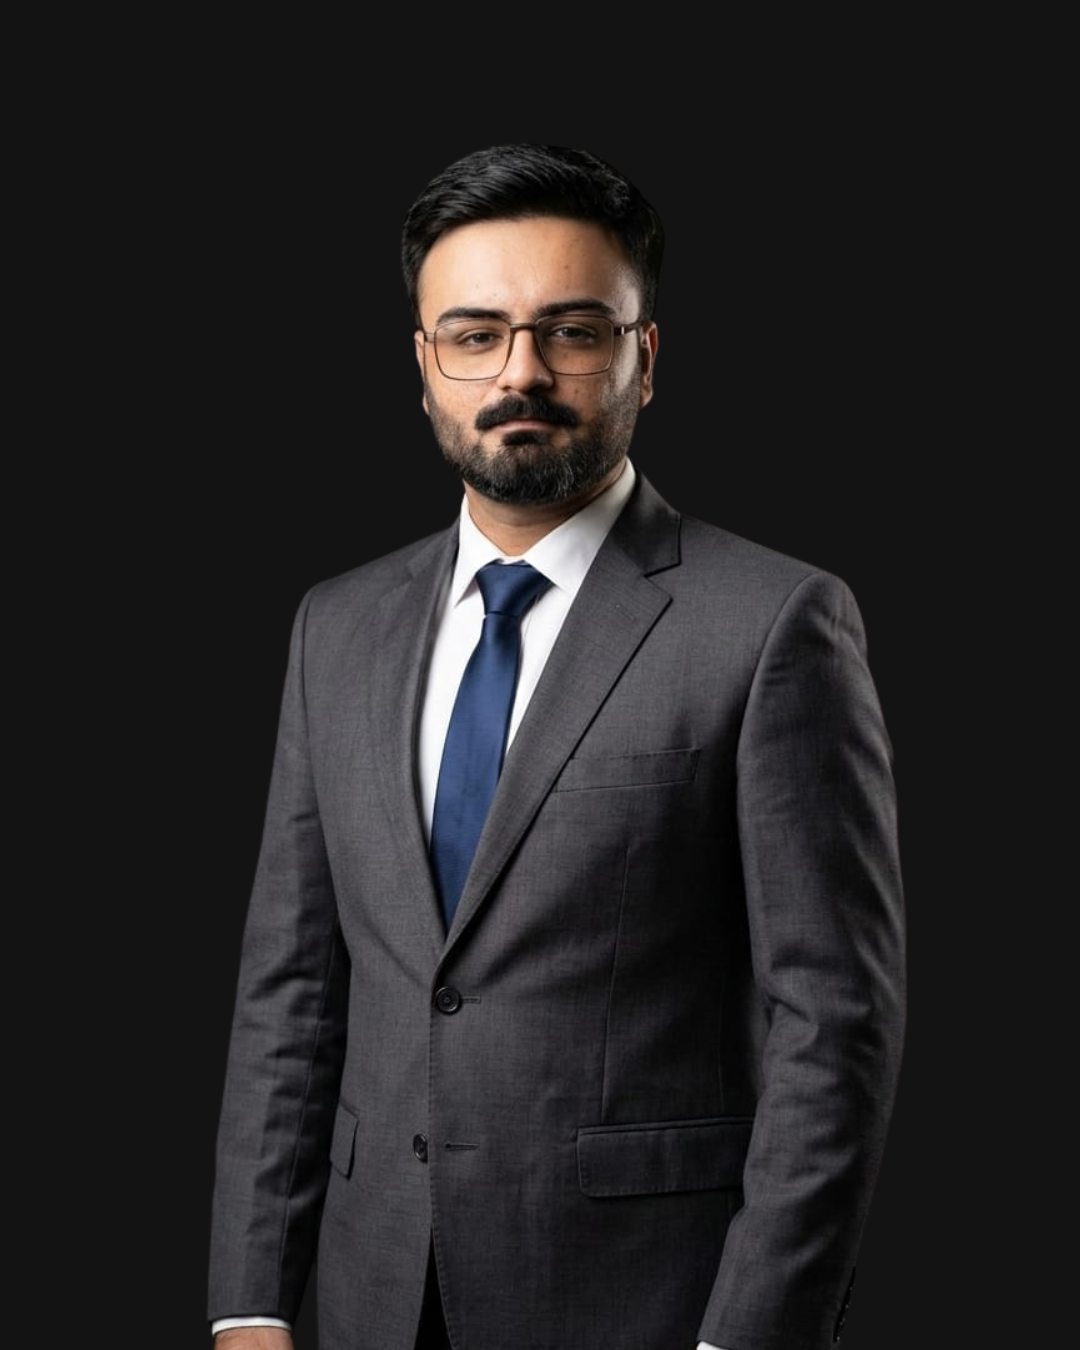
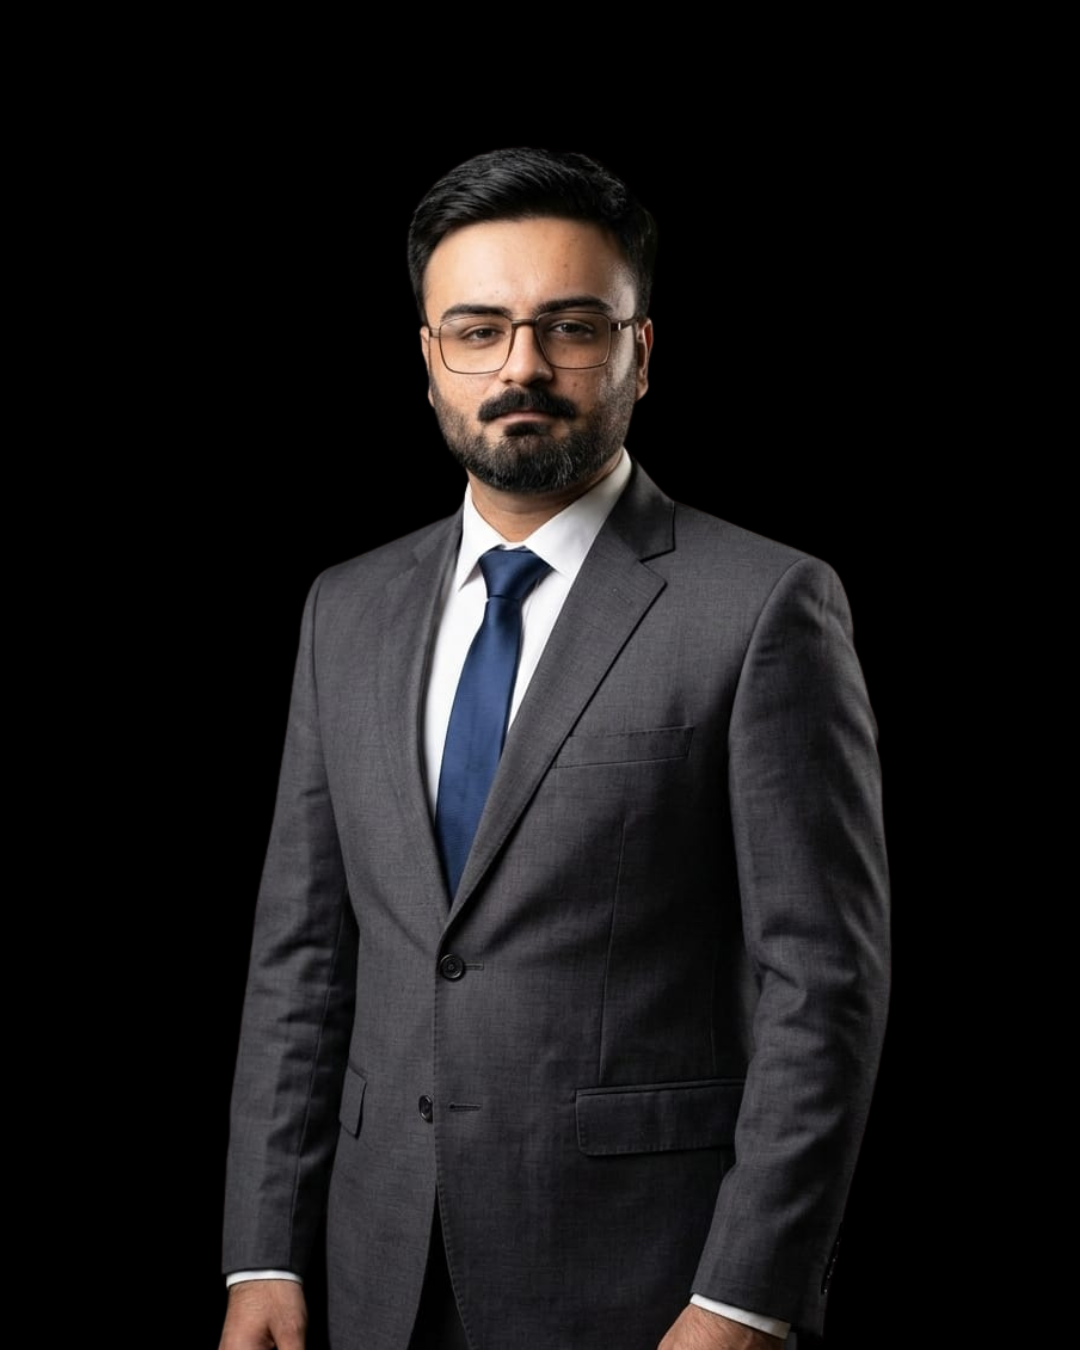
About.jsx updated

diff --git a/src/Components/TeamGrid.jsx b/src/Components/TeamGrid.jsx
@@ -6,17 +6,16 @@ import Sabir from '../assets/images/sabir.jpeg';
 import Mubeen from '../assets/images/mubeen.jpg';
 import Meer from '../assets/images/meer.png';
 import Talha from '../assets/images/talha.png';
-import Ibtsam from '../assets/images/ibtsam.jfif';
+import Ibtsam from '../assets/images/1.jpeg';
 
 const cardData = [
   { id: 1, category: 'WEB DEVELOPER', title: 'MUHAMMAD HAMZA', description: 'Building secure, scalable backend architectures, APIs, and cloud services.', image: Hamza },
-  { id: 2, category: 'DIGITAL MARKETING', title: 'Ameer Hamza', description: 'Creating search optimization strategies and online campaign frameworks to scale traffic.', image: Ameerhamza },
-  { id: 3, category: 'Performance Marketing', title: 'Sabir Hussain ', description: 'Optimizing paid advertising channels, conversion rates, and ROI metrics.', image: Sabir },
-  { id: 4, category: 'Graphic Designer', title: 'Sabir Hussain', description: 'Designing user interfaces, branding visuals, and high-fidelity graphics.', image: Sabir },
-  { id: 5, category: 'FRONTEND WEB DEVELOPER', title: 'MUHAMMAD MUBEEN AMJAD', description: 'Developing responsive UI components using React, Tailwind CSS, and Framer Motion.', image: Mubeen },
-  { id: 6, category: 'Graphic Designer', title: 'Meer Ali Abbas', description: 'Creating visually compelling brand identities, graphics, and high-fidelity mockups for digital products.', image: Meer },
-  { id: 7, category: 'MACHINE LEARNING', title: 'MUHAMMAD TALHA', description: 'Building machine learning pipelines, predictive engines, and data analytics dashboards.', image: Talha },
-  { id: 8, category: 'FRONTEND WEB DEVELOPER', title: 'MUHAMMAD IBTSAM', description: 'Designing modular code architecture and improving clientside performance benchmarks.', image: Ibtsam },
+  { id: 2, category: 'Performance Marketing', title: 'Sabir Hussain ', description: 'Optimizing paid advertising channels, conversion rates, and ROI metrics.', image: Sabir },
+  { id: 3, category: 'Graphic Designer', title: 'Sabir Hussain', description: 'Designing user interfaces, branding visuals, and high-fidelity graphics.', image: Sabir },
+  { id: 4, category: 'FRONTEND WEB DEVELOPER', title: 'MUHAMMAD MUBEEN AMJAD', description: 'Developing responsive UI components using React, Tailwind CSS, and Framer Motion.', image: Mubeen },
+  { id: 5, category: 'Graphic Designer', title: 'Meer Ali Abbas', description: 'Creating visually compelling brand identities, graphics, and high-fidelity mockups for digital products.', image: Meer },
+  { id: 6, category: 'MACHINE LEARNING', title: 'MUHAMMAD TALHA', description: 'Building machine learning pipelines, predictive engines, and data analytics dashboards.', image: Talha },
+  { id: 7, category: 'WEB DEVELOPER', title: 'MUHAMMAD IBTSAM', description: 'Building secure, scalable backend architectures, APIs, and cloud services.', image: Ibtsam },
 ];
 
 // --- 3D PARALLAX CARD COMPONENT ---

diff --git a/src/Components/Core.jsx b/src/Components/Core.jsx
@@ -102,9 +102,7 @@ const FeatureCard = ({ card }) => {
 
 const Core = () => {
   return (
-    // Update 1: Added 'min-h-screen' and 'flex-col justify-center' to ensure the section fills the viewport
-    // This forces the mouse to be inside the section when scrolling, activating the Swiper effect immediately.
-    <section className="min-h-screen py-24 bg-white px-4 sm:px-6 lg:px-8 overflow-hidden flex flex-col justify-center">
+    <section className="py-24 bg-white px-4 sm:px-6 lg:px-8 overflow-hidden flex flex-col justify-center">
       <div className="max-w-7xl mx-auto w-full">
         <div className="mb-16">
           <h2 className="text-4xl md:text-5xl font-extrabold text-[#00419B] inline-block relative">

diff --git a/src/Components/TeamSection.jsx b/src/Components/TeamSection.jsx
@@ -29,7 +29,7 @@ const TeamSection = () => {
             imageSrc={CEO}
             name="Abdul Ahad Dahir"
             title="Founder / CEO"
-            imagePosition="center 0%"
+            imagePosition="center 10%"
           />
 
           <TeamCard
@@ -65,7 +65,7 @@ const TeamCard = ({
           src={imageSrc}
           alt={name}
           style={{ objectPosition: imagePosition }}
-          className="w-full h-full object-cover transition ease-in-out duration-700 group-hover:scale-110"
+          className="w-full h-full object-cover transition ease-in-out duration-700 scale-110 group-hover:scale-120"
         />
 
         {/* Rest of your code */}

diff --git a/src/Components/AboutHero.jsx b/src/Components/AboutHero.jsx
@@ -10,7 +10,7 @@ const AboutHero = () => {
   };
 
   return (
-    <div className="min-h-[60vh] py-20 w-full bg-[#FAFAFA] flex flex-col items-center justify-center font-['Outfit'] relative overflow-hidden px-4">
+    <div className="pt-20 pb-30 w-full bg-[#FAFAFA] flex flex-col items-center justify-center font-['Outfit'] relative overflow-hidden px-4">
       {/* Animation */}
       <div className="absolute inset-0 z-0 flex items-center justify-center">
         <div style={{ width: '100%', height: '100%', position: 'relative' }}>

diff --git a/src/Components/Explore.jsx b/src/Components/Explore.jsx
@@ -20,7 +20,7 @@ const Explore = () => {
     <section
       style={{ fontFamily: "'Playfair Display', serif" }}
       // Added 'relative' and 'overflow-hidden' here to cut off dots outside the section
-      className="relative w-full min-h-[60vh] flex flex-col items-center justify-center bg-[#f8f9fa] px-6 pt-10 pb-16 text-center overflow-hidden"
+      className="relative w-full flex flex-col items-center justify-center bg-[#f8f9fa] px-6 pt-10 pb-16 text-center overflow-hidden"
     >
       {/* Animation Background */}
       <div className="absolute inset-0 z-0">

diff --git a/src/Components/Hero.jsx b/src/Components/Hero.jsx
@@ -49,7 +49,7 @@ const Hero = () => {
   };
 
   return (
-    <section className="relative min-h-[80vh] flex items-start lg:items-center overflow-hidden bg-white">
+    <section className="relative border-b border-black/5 flex items-start lg:items-center overflow-hidden bg-white">
       {/* eanimation */}
         {/* eanimatiom */}
        <div className="absolute inset-0 z-0 flex items-center justify-center">